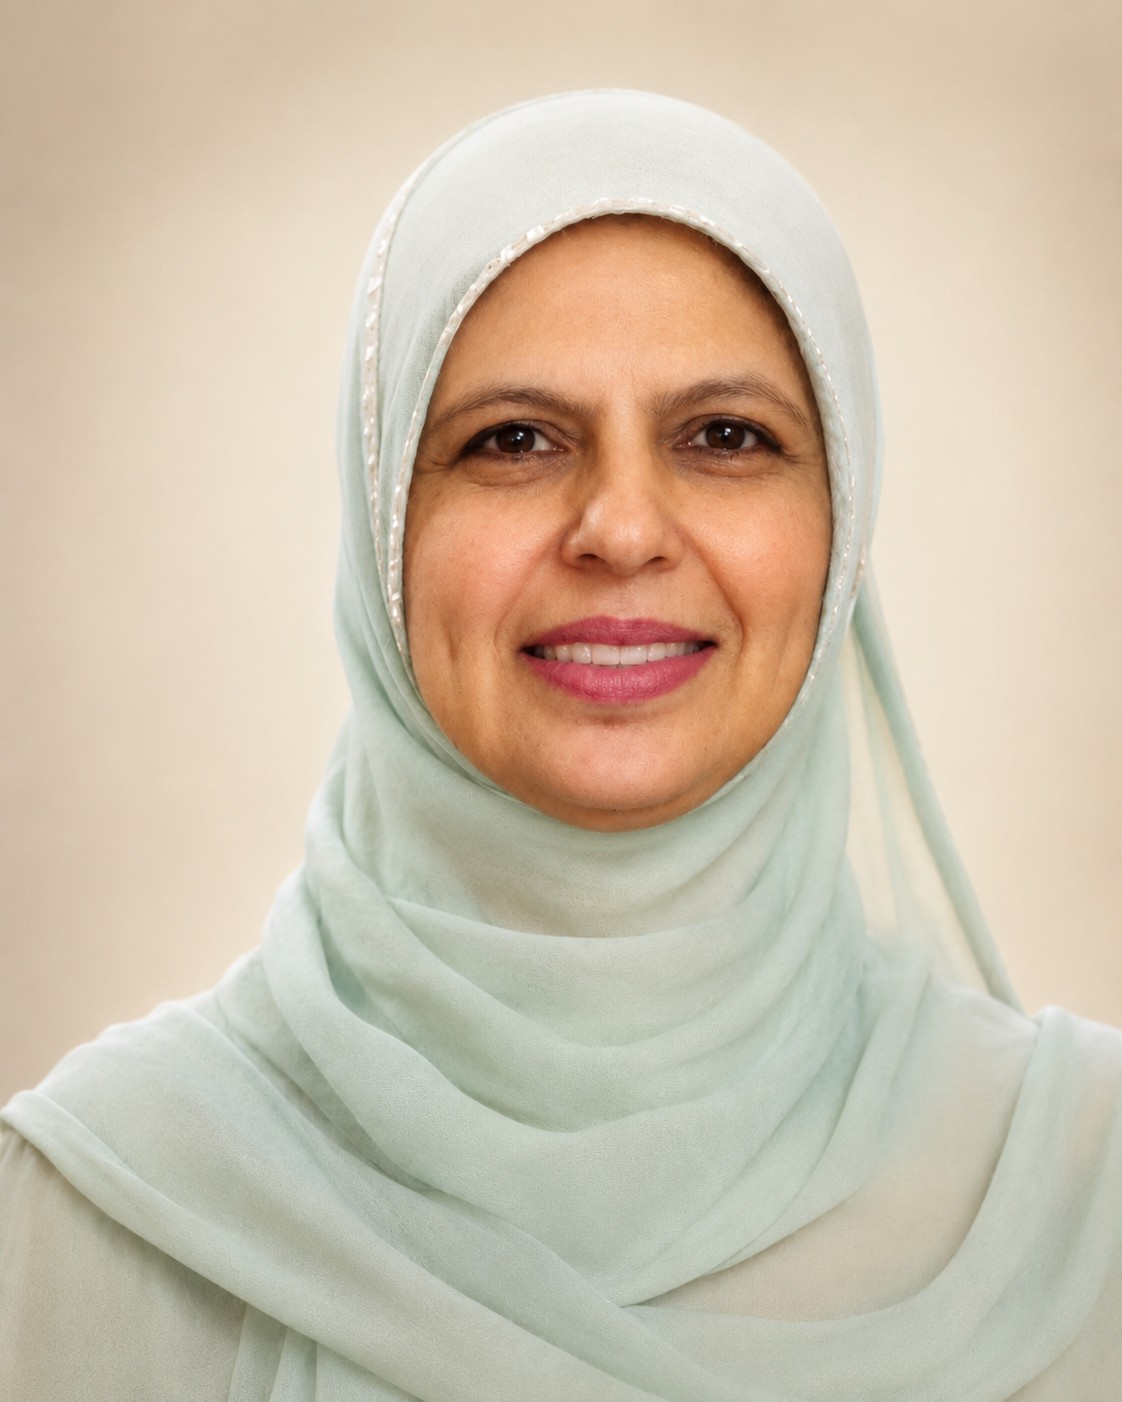
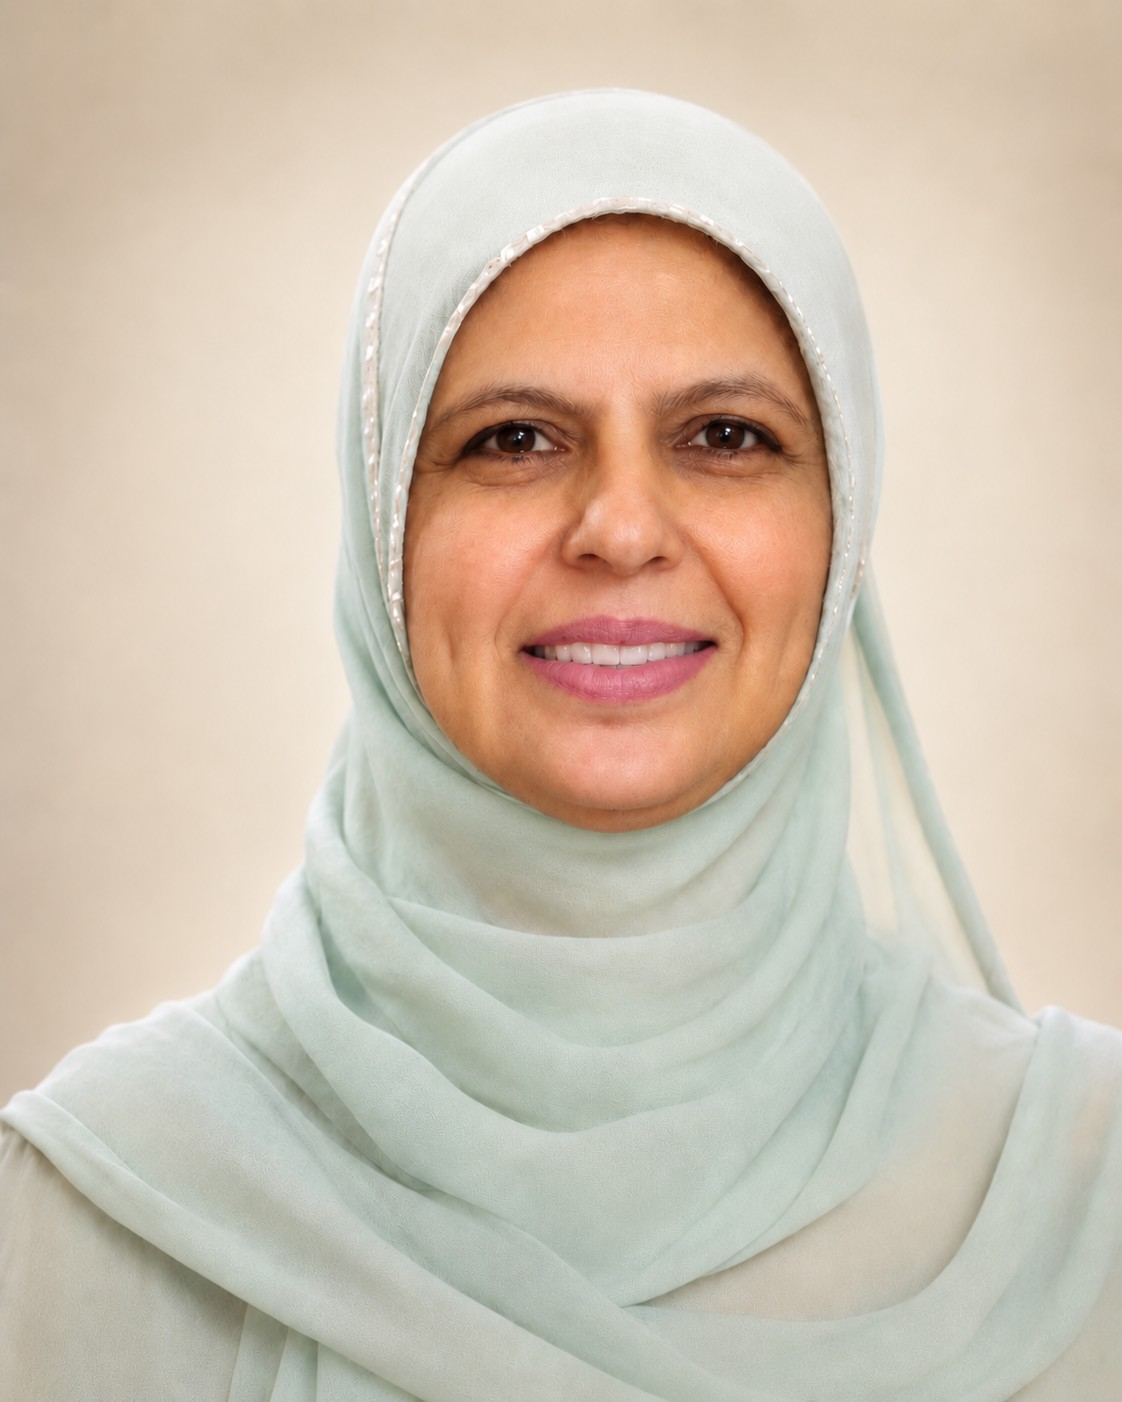
new files and content update

Changed region(s): [[0.4679, 0.4294, 0.6239, 0.5214]]

diff --git a/about-book.html b/about-book.html
@@ -69,9 +69,9 @@
              hero instead of the boxed action-card.
              ============================================================ -->
         <form id="notifyForm" class="hero-form" novalidate>
-          <label for="notifyEmail" class="hero-notify-label">Subscribe to be the first to know when it's available.</label>
+          <label for="notifyEmail" class="hero-notify-label">Join the pre-launch list and be the first to know when Kindle pre-orders open.</label>
           <input type="email" name="email_address" id="notifyEmail" class="notify-input" placeholder="Your email address" required>
-          <button type="submit" id="notifyButton" class="btn-green">Notify Me First</button>
+          <button type="submit" id="notifyButton" class="btn-green">Join the List</button>
         </form>
         <p id="notifyMessage" class="notify-message" role="status" hidden></p>
 
@@ -85,7 +85,7 @@
             <circle cx="12" cy="12" r="4"/>
             <circle cx="17" cy="7" r="1.1" fill="currentColor" stroke="none"/>
           </svg>
-          Follow @leena.author for first looks
+          Follow @leena.author on Instagram
         </a>
 
       </aside>
@@ -94,14 +94,18 @@
            BOOK DESCRIPTION — edit the paragraphs below freely.
            ============================================================ -->
       <div class="book-content">
-        <p>Islam is a way of life. Yet living its guidance amid demanding work, complicated relationships, family responsibilities, unexpected changes, and uncertain plans is not always easy.</p>
-        <p><i>Tomorrow Takes Practice</i> explores twelve Islamic values that can help us meet these everyday pressures with greater intention, steadiness, and trust in Allah.</p>
-        <p>Through twelve relatable fictional stories, the book brings values such as tafakkur, muraqabah, tawakkul, ikhlas, amanah, and istiqamah into recognizable moments: a difficult conversation, a demanding decision, a mistake we regret, or a plan that did not unfold as expected.</p>
-        <p>Each chapter connects one Islamic value with a common human challenge. Islamic teaching provides the foundation and direction, while carefully selected insights from psychology and behavioral research illuminate the thoughts, emotions, and habits that can make these moments harder. The chapter then offers a practical way to carry that value into daily life.</p>
-        <p>An end-of-the-day muhasabah closes each chapter with guided reflection, helping readers look back honestly and choose one sincere step to practice tomorrow.</p>
-        <p>This book does not promise a life without pressure or a path to perfection. It offers a more intentional way to meet the life we already have: to think more clearly under pressure, speak with greater care, respond to uncertainty with trust, and return with sincerity after mistakes.</p>
-        <p>For anyone seeking to bring Islamic guidance more fully into everyday life, <i>Tomorrow Takes Practice</i> offers a practical place to begin.</p>
-        <p>A more peaceful tomorrow begins with what we practice today.</p>
+        <p><strong>What if a more peaceful tomorrow begins with what we choose to practice today?</strong></p>
+        <p>We all want peace, don't we? A peaceful day. A peaceful heart. A life that feels steady, meaningful, and close to Allah.</p>
+        <p>But how do we get there? We pray, work hard, care for our families, fulfill our responsibilities, and try to make the right choices. Yet even when we do everything right, peace can still feel out of reach.</p>
+        <p>Work gets demanding. Relationships become complicated. Responsibilities pile up. Even when life looks fine from the outside, we can still feel unsettled inside.</p>
+        <p>We all know, and have often heard, that Islam is a way of life. The question is: how do we live it?</p>
+        <p><i>Tomorrow Takes Practice</i> uses twelve relatable stories to show how Islamic values can guide daily choices and bring greater peace.</p>
+        <p>The stories show readers how to use principles such as tafakkur (reflection), muraqabah (mindfulness of Allah), sabr (patience), shukr (gratitude), tawakkul (trust in Allah), ikhlas (sincerity), amanah (responsibility), istiqamah (steadfastness), tawbah (repentance), rahmah (compassion), and khidmah (service) in conversations, decisions, mistakes, and unexpected challenges.</p>
+        <p>Each chapter connects an Islamic value to an everyday challenge. Islamic teachings provide the foundation, while insights from psychology and behavioral research explain the thoughts, emotions, and habits that can make these situations difficult. The chapter then shows how to put the value into practice.</p>
+        <p>Each chapter ends with muhasabah, a simple end-of-day check-in. Readers can look back honestly, recognize Allah's blessings, notice where they could show more mercy, and choose one sincere step for tomorrow.</p>
+        <p>Life will still be busy, difficult, and far from perfect. This book helps us face it with more purpose. It teaches us to think clearly under pressure, respond with sabr, recognize our blessings through shukr, show rahmah to ourselves and others, speak with care, trust Allah through tawakkul, and return to Him through tawbah when we make mistakes.</p>
+        <p>Islam is a way of life, and <i>Tomorrow Takes Practice</i> helps you live it, one day at a time.</p>
+        <p>Because a more peaceful tomorrow begins with what you practice today.</p>
 
         <!-- Sample chapter card. The link opens the real PDF reader on
              index.html — drop the actual PDF at

diff --git a/author.html b/author.html
@@ -78,9 +78,9 @@
                main.js), instead of the boxed action-card.
                ============================================================ -->
           <form id="notifyForm" class="hero-form" novalidate>
-            <label for="notifyEmail" class="hero-notify-label">Subscribe to be the first to know when it's available.</label>
+            <label for="notifyEmail" class="hero-notify-label">Join the pre-launch list and be the first to know when Kindle pre-orders open.</label>
             <input type="email" name="email_address" id="notifyEmail" class="notify-input" placeholder="Your email address" required>
-            <button type="submit" id="notifyButton" class="btn-green">Notify Me First</button>
+            <button type="submit" id="notifyButton" class="btn-green">Join the List</button>
           </form>
           <p id="notifyMessage" class="notify-message" role="status" hidden></p>
 
@@ -90,7 +90,7 @@
               <circle cx="12" cy="12" r="4"/>
               <circle cx="17" cy="7" r="1.1" fill="currentColor" stroke="none"/>
             </svg>
-            Follow @leena.author for first looks
+            Follow @leena.author on Instagram
           </a>
 
         </aside>
@@ -98,14 +98,15 @@
         <!-- RIGHT COLUMN: lead line + full bio, now with more room
              since the sidebar is narrower. -->
         <div class="author-main">
-          <p class="author-lead">Her work is rooted in one question: what happens when the wisdom of faith meets what we know about the human mind and behaviour?</p>
+          <p class="author-lead">Her work is rooted in one question: what happens when the wisdom of faith meets what we know about the human mind and behavior?</p>
           <div class="author-rule"></div>
 
           <div class="author-bio-below">
-              <p class="bio-p">Leena is a certified life coach, author, and technology professional. With a background in computer engineering, she spent more than thirteen years in software engineering roles at global technology companies. Her writing brings together practical thinking, Islamic values, and a thoughtful approach to personal growth.</p>
-              <p class="bio-p">This background shapes a structured, practical approach grounded in faith and purpose.</p>
+              <p class="bio-p">Leena is a certified life coach, author, and technology professional. With a background in computer engineering, she spent more than thirteen years in software engineering roles at global technology companies.</p>
+              <p class="bio-p">Her experience has taught her to approach personal growth with practical thinking, faith, and purpose, all grounded in Islamic values.</p>
               <p class="bio-p">As a coach, Leena helps people clarify what matters to them and bring those values into their choices, relationships, and responsibilities.</p>
               <p class="bio-p"><i>Tomorrow Takes Practice</i> grew from this work and her study of Islamic guidance for daily life.</p>
+              <p class="bio-p">Her message is simple: a more peaceful tomorrow is shaped by what we practice today through reflection, faith, and everyday choices.</p>
           
           </div>
         </div>

diff --git a/index.html b/index.html
@@ -67,9 +67,9 @@
              wired in assets/js/main.js). Only the layout is different.
              ============================================================ -->
         <form id="notifyForm" class="hero-form" novalidate>
-          <label for="notifyEmail" class="hero-notify-label">Subscribe to be the first to know when it's available.</label>
+          <label for="notifyEmail" class="hero-notify-label">Join the pre-launch list and be the first to know when Kindle pre-orders open.</label>
           <input type="email" name="email_address" id="notifyEmail" class="notify-input" placeholder="Your email address" required>
-          <button type="submit" id="notifyButton" class="btn-green">Notify Me First</button>
+          <button type="submit" id="notifyButton" class="btn-green">Join the List</button>
         </form>
         <p id="notifyMessage" class="notify-message" role="status" hidden></p>
 
@@ -83,7 +83,7 @@
             <circle cx="12" cy="12" r="4"/>
             <circle cx="17" cy="7" r="1.1" fill="currentColor" stroke="none"/>
           </svg>
-          Follow @leena.author for first looks
+          Follow @leena.author on Instagram
         </a>
       </div>
 
@@ -119,9 +119,9 @@
          every other page, just stacked in a narrower column. -->
     <aside class="reader-sidebar">
       <form id="readerNotifyForm" class="hero-form" novalidate>
-        <label for="readerNotifyEmail" class="hero-notify-label">Subscribe to be the first to know when it's available.</label>
+        <label for="readerNotifyEmail" class="hero-notify-label">Join the pre-launch list and be the first to know when Kindle pre-orders open.</label>
         <input type="email" name="email_address" id="readerNotifyEmail" class="notify-input" placeholder="Your email address" required>
-        <button type="submit" id="readerNotifyButton" class="btn-green">Notify Me First</button>
+        <button type="submit" id="readerNotifyButton" class="btn-green">Join the List</button>
       </form>
       <p id="readerNotifyMessage" class="notify-message" role="status" hidden></p>
 
@@ -131,7 +131,7 @@
           <circle cx="12" cy="12" r="4"/>
           <circle cx="17" cy="7" r="1.1" fill="currentColor" stroke="none"/>
         </svg>
-        Follow @leena.author for first looks
+        Follow @leena.author on Instagram
       </a>
     </aside>
 

diff --git a/assets/js/main.js b/assets/js/main.js
@@ -10,7 +10,7 @@
 // can share this same logic and the same Kit form.
 
 (function () {
-    var KIT_FORM_ID = '9885575';
+  var KIT_FORM_ID = '9885575';
   var ENDPOINT = 'https://app.kit.com/forms/' + KIT_FORM_ID + '/subscriptions';
 
   function wireSubscribeForm(formId, emailId, buttonId, messageId) {
@@ -33,6 +33,7 @@
       var email = emailInput.value.trim();
       if (!email) return;
 
+      var originalLabel = button.textContent;
       button.disabled = true;
       button.textContent = 'SENDING\u2026';
 
@@ -53,7 +54,7 @@
         })
         .finally(function () {
           button.disabled = false;
-          button.textContent = 'Notify me';
+          button.textContent = originalLabel;
         });
     });
   }
@@ -130,7 +131,14 @@
       // sharp on a ~1x laptop display, soft/hazy on a 2-3x phone screen.
       var pixelRatio = window.devicePixelRatio || 1;
 
-      var containerWidth = viewport.clientWidth - 64;
+      // Read the viewport's actual CSS padding instead of assuming a
+      // fixed number — .pdf-reader-viewport's padding shrinks from
+      // 32px to 16px per side under 480px, and hardcoding the desktop
+      // value here left mobile pages rendered narrower than the
+      // screen actually allows.
+      var viewportStyle = window.getComputedStyle(viewport);
+      var horizontalPadding = (parseFloat(viewportStyle.paddingLeft) || 0) + (parseFloat(viewportStyle.paddingRight) || 0);
+      var containerWidth = viewport.clientWidth - horizontalPadding;
       var baseViewport = page.getViewport({ scale: 1 });
       var scale = Math.min(1.4, containerWidth / baseViewport.width);
       var scaledViewport = page.getViewport({ scale: scale });
